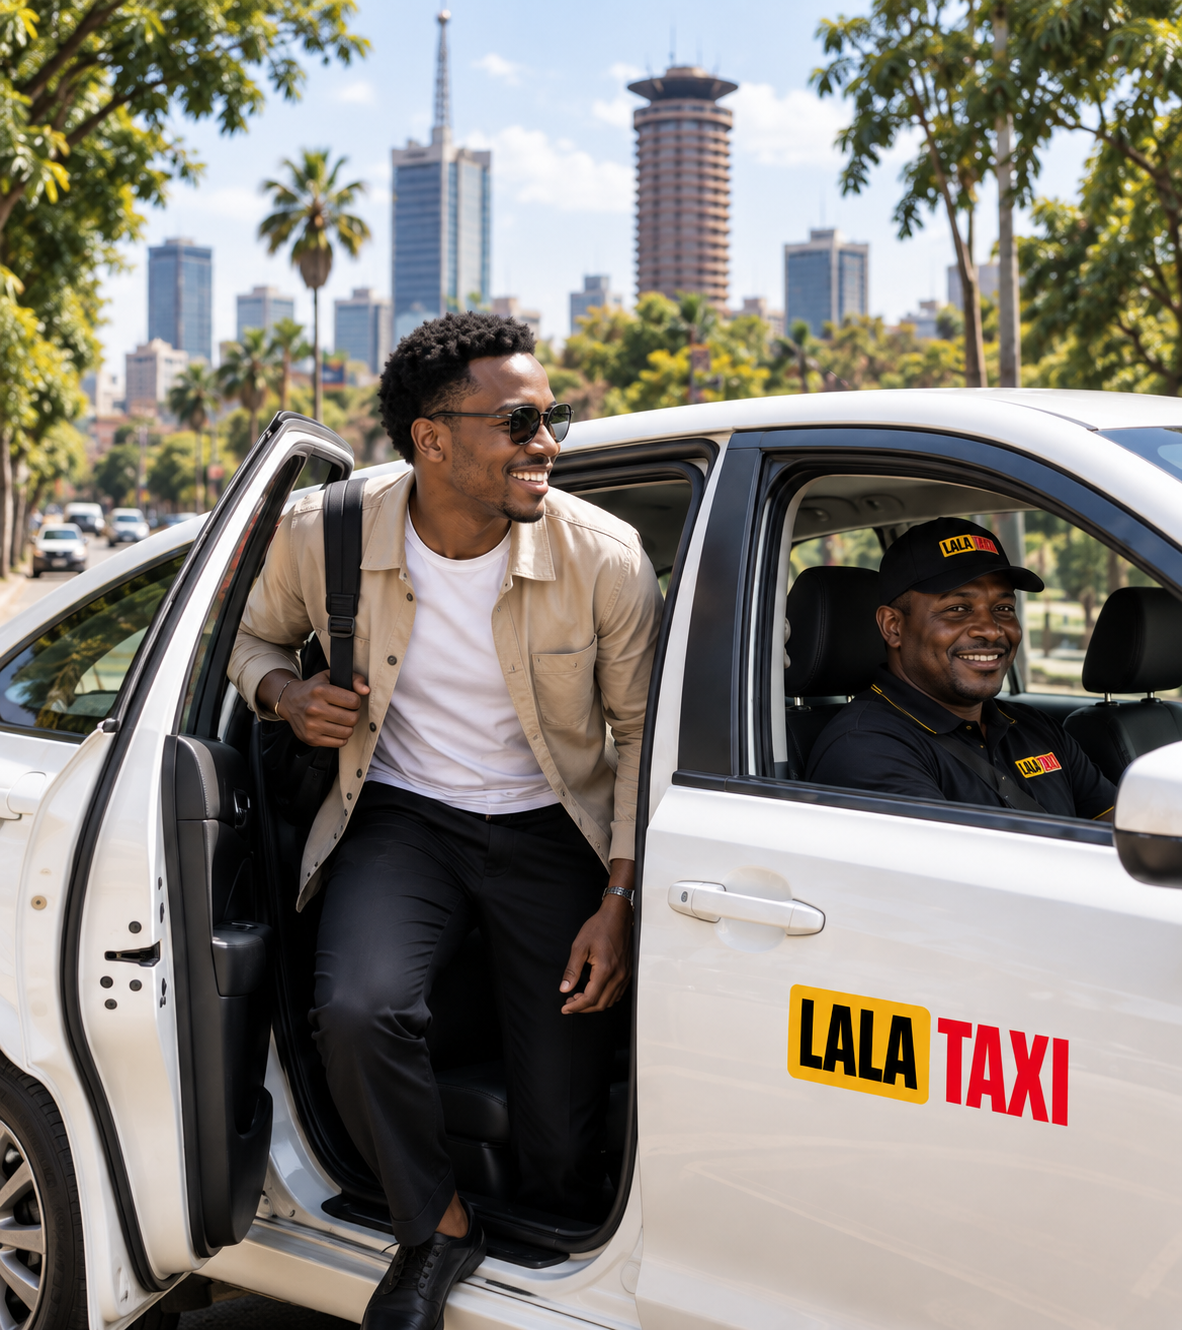
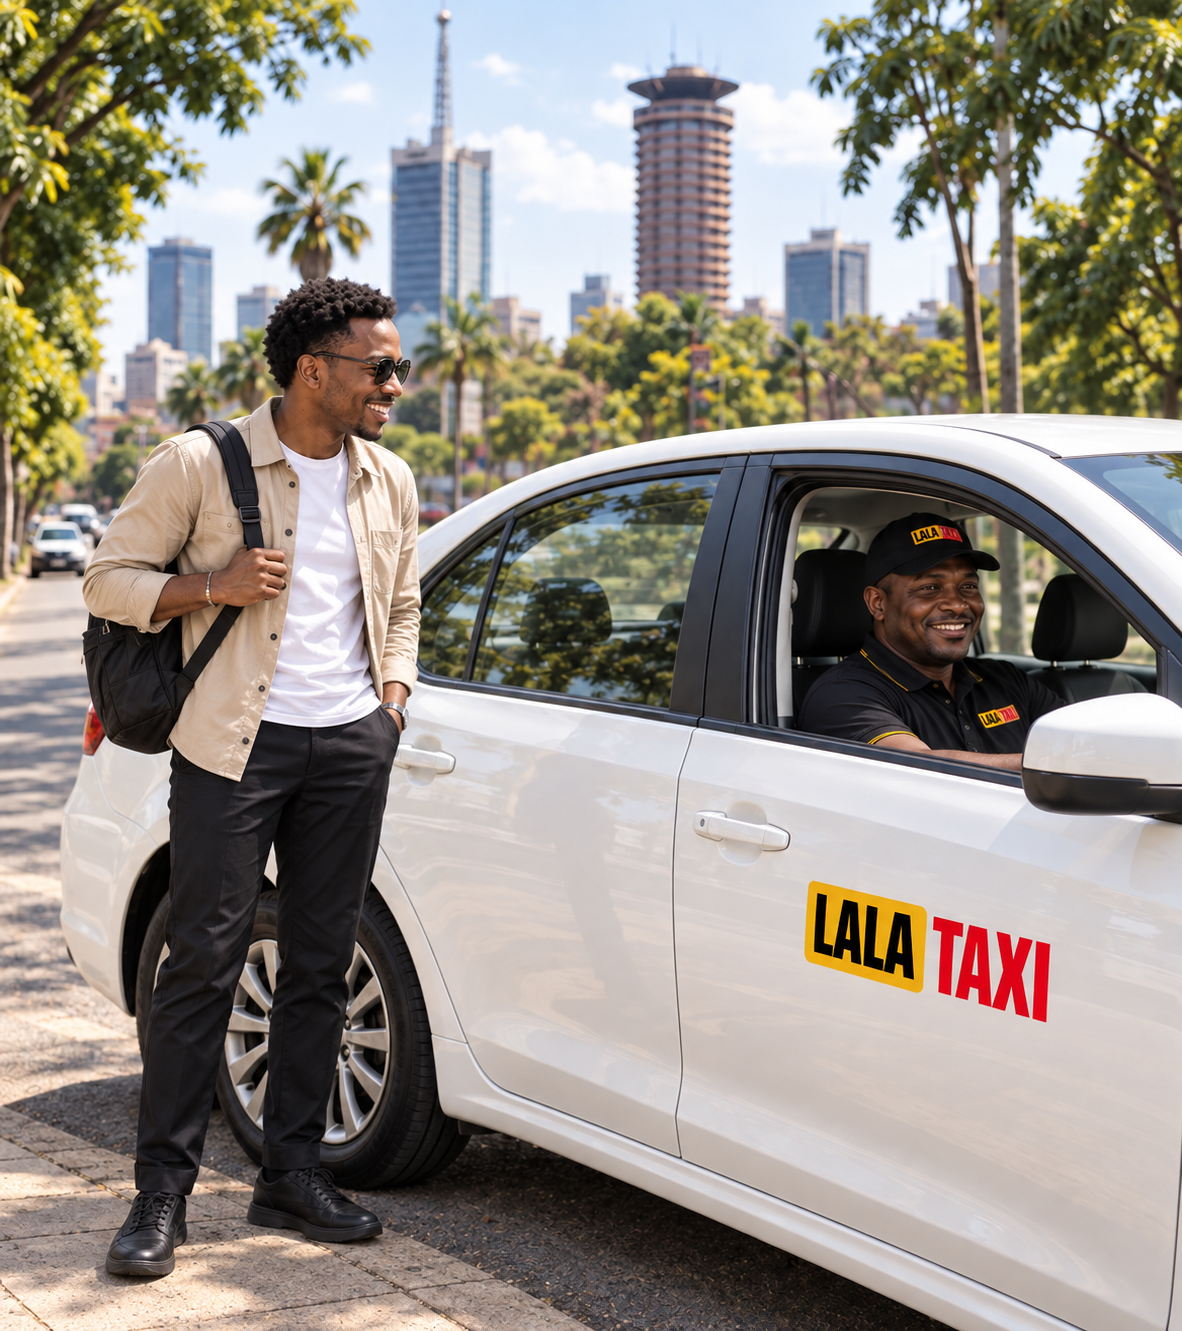
Chnaged hero image

diff --git a/resources/views/ride/ride.blade.php b/resources/views/ride/ride.blade.php
@@ -1,7 +1,7 @@
 @extends('marketing.layout')
 @section('title', __('website.ride_ride_with_lalataxi_wherever_your_day_takes_you'))
 @section('main')
-<section class="split-hero"><div class="split-hero__copy"><p class="site-eyebrow">{{ __('website.ride_ride_with_lala') }}</p><h1>{{ __('website.ride_your_plans') }}<br>{{ __('website.ride_your_city') }}<br>{{ __('website.ride_your_ride') }}</h1><p class="site-lead">{{ __('website.ride_an_early_meeting_a_late_dinner_the_trip_home_make_getting_there_t') }}</p><div class="site-actions"><a class="site-btn" href="{{ url('app/rider') }}" data-app-open>{{ __('website.ride_get_the_app') }} <i data-lucide="arrow-right" aria-hidden="true"></i></a><a class="site-link" href="{{ url('signup_rider') }}">{{ __('website.ride_sign_up_to_ride') }}</a></div></div><img class="split-hero__image" src="{{ asset('images/marketing/landing-hero.webp') }}" alt="{{ __('website.ride_a_rider_getting_into_a_lalataxi_in_nairobi') }}" width="1182" height="1330" fetchpriority="high"></section>
+<section class="split-hero"><div class="split-hero__copy"><p class="site-eyebrow">{{ __('website.ride_ride_with_lala') }}</p><h1>{{ __('website.ride_your_plans') }}<br>{{ __('website.ride_your_city') }}<br>{{ __('website.ride_your_ride') }}</h1><p class="site-lead">{{ __('website.ride_an_early_meeting_a_late_dinner_the_trip_home_make_getting_there_t') }}</p><div class="site-actions"><a class="site-btn" href="{{ url('app/rider') }}" data-app-open>{{ __('website.ride_get_the_app') }} <i data-lucide="arrow-right" aria-hidden="true"></i></a><a class="site-link" href="{{ url('signup_rider') }}">{{ __('website.ride_sign_up_to_ride') }}</a></div></div><img class="split-hero__image" src="{{ asset('images/marketing/landing-hero.webp') }}" alt="{{ __('website.ride_a_rider_getting_into_a_lalataxi_in_nairobi') }}" width="1182" height="1331" fetchpriority="high"></section>
 <section class="service-band"><div class="site-container"><p class="site-eyebrow">{{ __('website.ride_from_here_to_there') }}</p><h2>{{ __('website.ride_your_next_ride_in_three_steps') }}</h2><div class="service-grid"><article class="service-item"><i data-lucide="map-pin" aria-hidden="true"></i><h3>{{ __('website.ride_choose_your_destination') }}</h3><p>{{ __('website.ride_set_your_pickup_and_tell_us_where_you_re_going') }}</p></article><article class="service-item"><i data-lucide="car-front" aria-hidden="true"></i><h3>{{ __('website.ride_find_your_ride') }}</h3><p>{{ __('website.ride_choose_a_ride_check_the_estimate_and_confirm') }}</p></article><article class="service-item"><i data-lucide="route" aria-hidden="true"></i><h3>{{ __('website.ride_you_re_on_your_way') }}</h3><p>{{ __('website.ride_meet_your_driver_and_follow_your_journey_in_the_app') }}</p></article></div></div></section>
 <section class="site-section" id="airport"><div class="site-container feature-split feature-split--compact"><img class="feature-split__image" src="{{ asset('images/marketing/business-travel.webp') }}" alt="{{ __('website.ride_a_passenger_travelling_comfortably_in_the_back_seat') }}" width="1200" height="900" loading="lazy"><div class="feature-split__copy"><p class="site-eyebrow">{{ __('website.ride_for_the_journeys_beyond') }}</p><h2>{{ __('website.ride_from_your_doorstep') }}<br>{{ __('website.ride_to_your_next_departure') }}</h2><p>{{ __('website.ride_set_the_airport_as_your_destination_check_your_pickup_point_and_l') }}</p><div class="site-actions"><a class="site-btn site-btn--gold" href="{{ url('app/rider') }}" data-app-open>{{ __('website.ride_plan_your_ride') }} <i data-lucide="arrow-right" aria-hidden="true"></i></a></div></div></div></section>
 @include('marketing.partials.city')

diff --git a/resources/lang/en/website.php b/resources/lang/en/website.php
@@ -93,7 +93,7 @@ return [
     'ride_to_your_next_departure' => 'to your next departure.',
     'ride_set_the_airport_as_your_destination_check_your_pickup_point_and_l' => 'Set the airport as your destination, check your pickup point and leave time for the journey.',
     'ride_plan_your_ride' => 'Plan your ride',
-    'ride_a_rider_getting_into_a_lalataxi_in_nairobi' => 'A rider getting into a LalaTaxi in Kenya',
+    'ride_a_rider_getting_into_a_lalataxi_in_nairobi' => 'A passenger standing beside a LalaTaxi, with the driver at the wheel and a Kenyan city backdrop',
     'ride_a_passenger_travelling_comfortably_in_the_back_seat' => 'A passenger travelling comfortably in the back seat',
     'ride_ride_with_lalataxi_wherever_your_day_takes_you' => 'Ride with LalaTaxi — Wherever your day takes you',
     'drive_drive_with_lala' => 'Drive with Lala',
